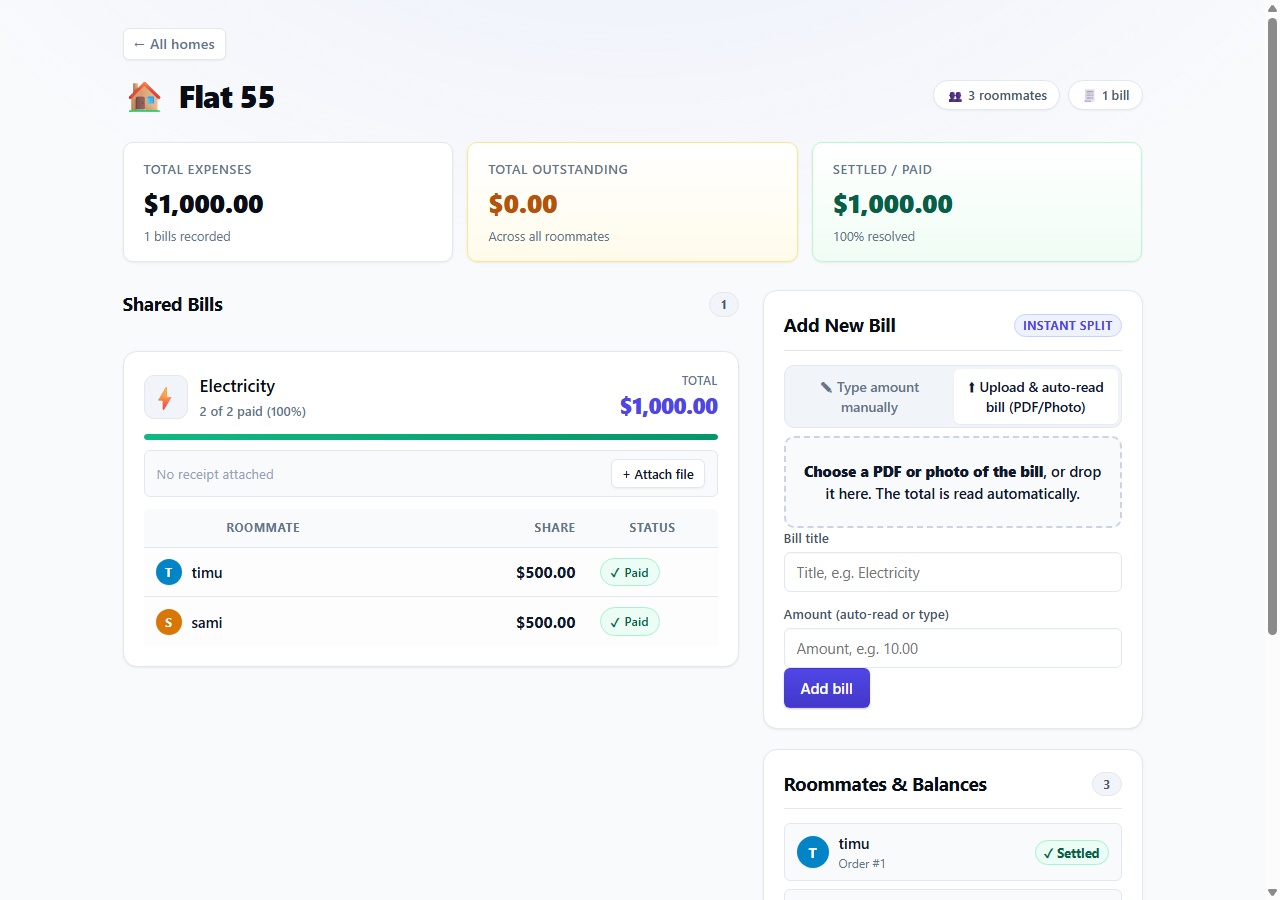
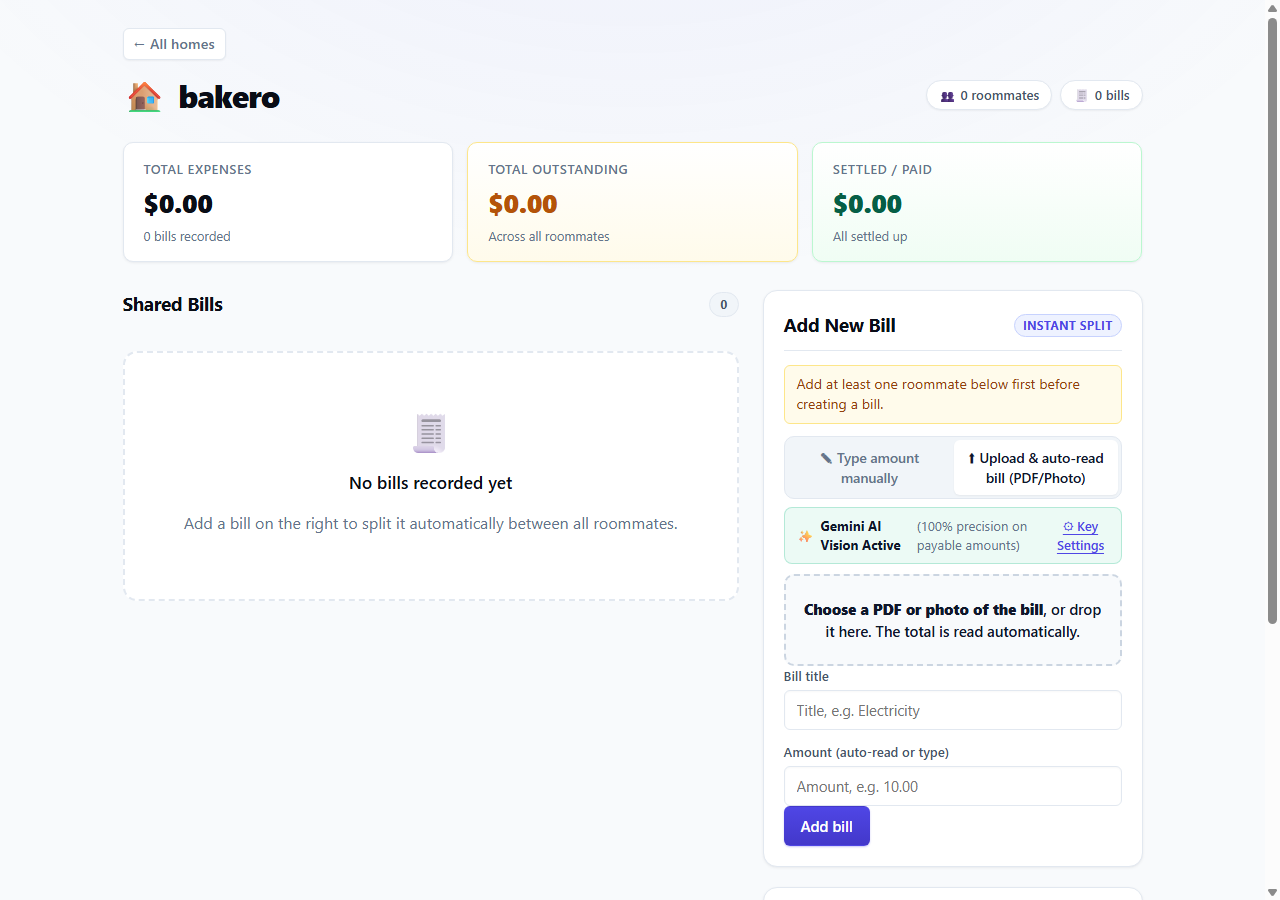
docs: document Gemini 2.5 Flash multimodal invoice parsing and update UI preview

diff --git a/web/src/billReader/readWithGemini.ts b/web/src/billReader/readWithGemini.ts
@@ -70,8 +70,8 @@ Return a valid JSON object matching this schema:
 Only output the JSON object, nothing else.
 `.trim()
 
-  // Try gemini-1.5-flash first (most widely available free model), fallback to gemini-2.0-flash / gemini-2.5-flash
-  const models = ['gemini-1.5-flash', 'gemini-2.0-flash', 'gemini-2.5-flash']
+  // Try gemini-2.5-flash first (most capable free multimodal model), then fallback
+  const models = ['gemini-2.5-flash', 'gemini-flash-latest', 'gemini-1.5-flash']
   let lastError: Error | null = null
 
   for (const model of models) {

diff --git a/README.md b/README.md
@@ -2,17 +2,17 @@
 
 A full-stack bill-splitting application designed for shared households, built on Cloudflare Workers (Hono), Cloudflare D1 (SQLite), React 19, and Vite.
 
-This project solves the problem of tracking shared living expenses without floating-point calculation errors, concurrency race conditions, or orphaned data. It includes an in-browser OCR bill scanner that works completely offline with zero third-party data leaks.
+This project solves the problem of tracking shared living expenses without floating-point calculation errors, concurrency race conditions, or orphaned data. It includes an intelligent bill parser supporting both client-side WebAssembly OCR (offline) and Google Gemini AI multimodal vision for 100% accurate invoice parsing.
 
 ---
 
 ## UI Preview
 
-|                  Household Dashboard                   |                Offline In-Browser OCR Scanner                |
-| :----------------------------------------------------: | :----------------------------------------------------------: |
-| ![Household Dashboard](docs/screenshots/dashboard.png) | ![Offline OCR Scanner](docs/screenshots/ocr_bill_reader.png) |
+|                  Household Dashboard                   |          AI Vision & In-Browser OCR Scanner           |
+| :----------------------------------------------------: | :---------------------------------------------------: |
+| ![Household Dashboard](docs/screenshots/dashboard.png) | ![Bill Scanner](docs/screenshots/ocr_bill_reader.png) |
 
-_Modern fintech UI with real-time financial KPI cards, settlement progress bars, deterministic avatar badges, and in-browser WebAssembly OCR._
+_Modern fintech UI with real-time financial KPI cards, settlement progress bars, deterministic avatar badges, Google Gemini AI vision parsing, and in-browser WebAssembly OCR._
 
 ---
 
@@ -21,8 +21,9 @@ _Modern fintech UI with real-time financial KPI cards, settlement progress bars,
 ```
 ┌────────────────────────────────────────────────────────┐
 │                   React 19 Frontend                    │
-│   • TanStack Router • Optimistic UI • Responsive CSS    │
-│   • Client-Side OCR: Tesseract.js (PSM.AUTO) + PDF.js  │
+│   • TanStack Router • Optimistic UI • Responsive CSS   │
+│   • Client-Side OCR: Tesseract.js (Otsu) + PDF.js      │
+│   • Multimodal AI: Google Gemini 2.5 Flash Parser      │
 └───────────────────────────┬────────────────────────────┘
                             │ JSON / Multipart HTTP
                             ▼
